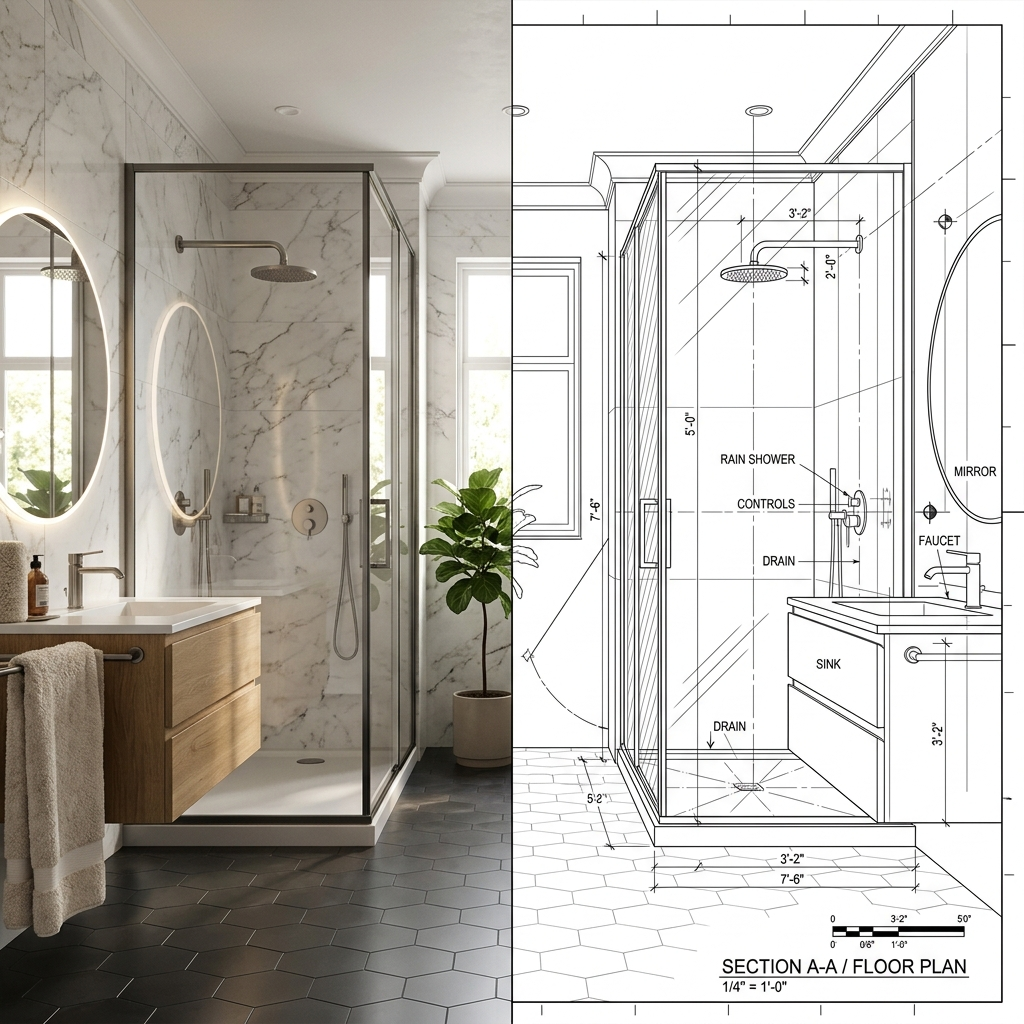
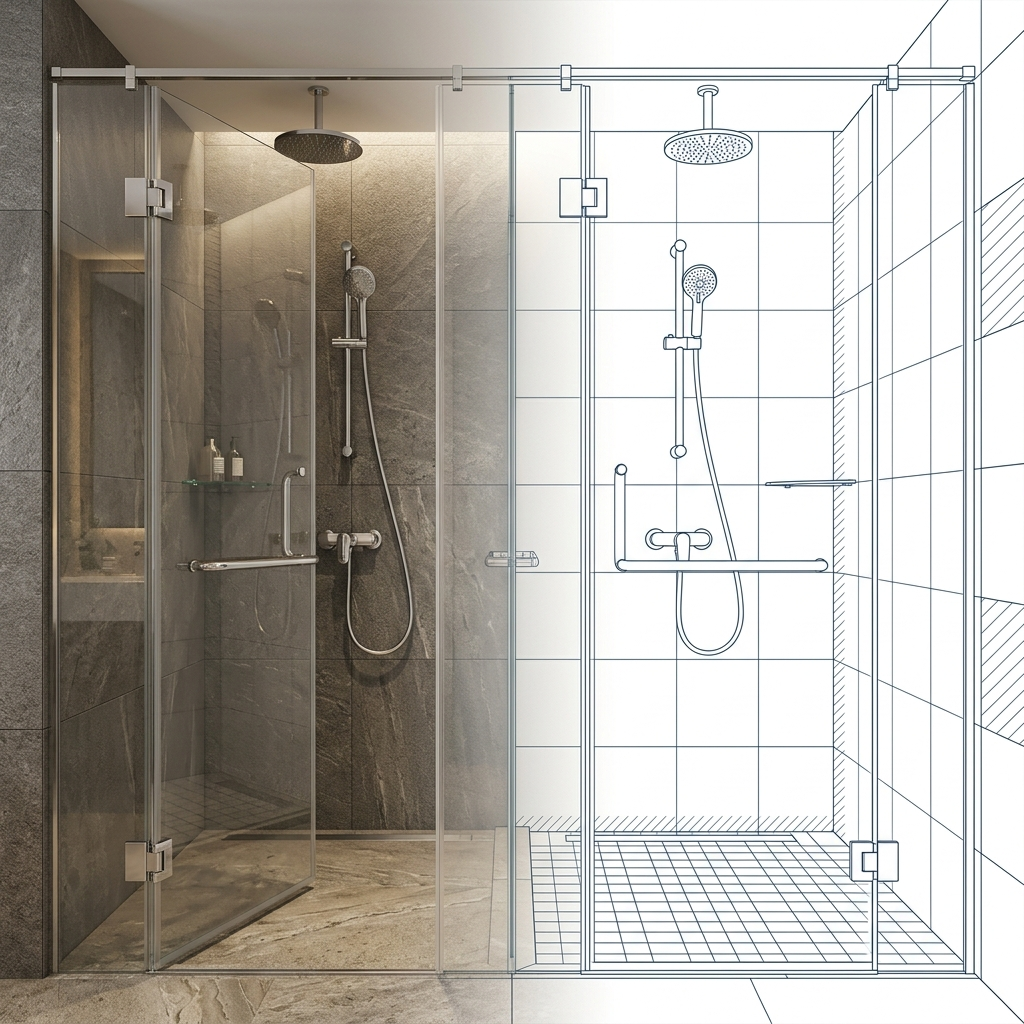
fix: regenerate images to remove english text and fix split screen continuity

diff --git a/src/app/page.tsx b/src/app/page.tsx
@@ -177,7 +177,7 @@ export default function Home() {
           <div className="order-1 lg:order-2 relative h-[500px] lg:h-[700px] rounded-[2rem] overflow-hidden shadow-2xl shadow-primary/10">
             <Reveal className="w-full h-full">
               <Image 
-                src="/workspace_1_1780447199052.png" 
+                src="/workspace_1_new.png" 
                 alt="Architectural workspace" 
                 fill 
                 className="object-cover"
@@ -204,7 +204,7 @@ export default function Home() {
             <div className="lg:col-span-5 relative h-[400px] lg:h-[600px] rounded-[2rem] overflow-hidden shadow-2xl shadow-primary/10">
               <Reveal className="w-full h-full">
                 <Image 
-                  src="/workspace_2_1780447209664.png" 
+                  src="/workspace_2_new.png" 
                   alt="Blueprint close-up" 
                   fill 
                   className="object-cover"
